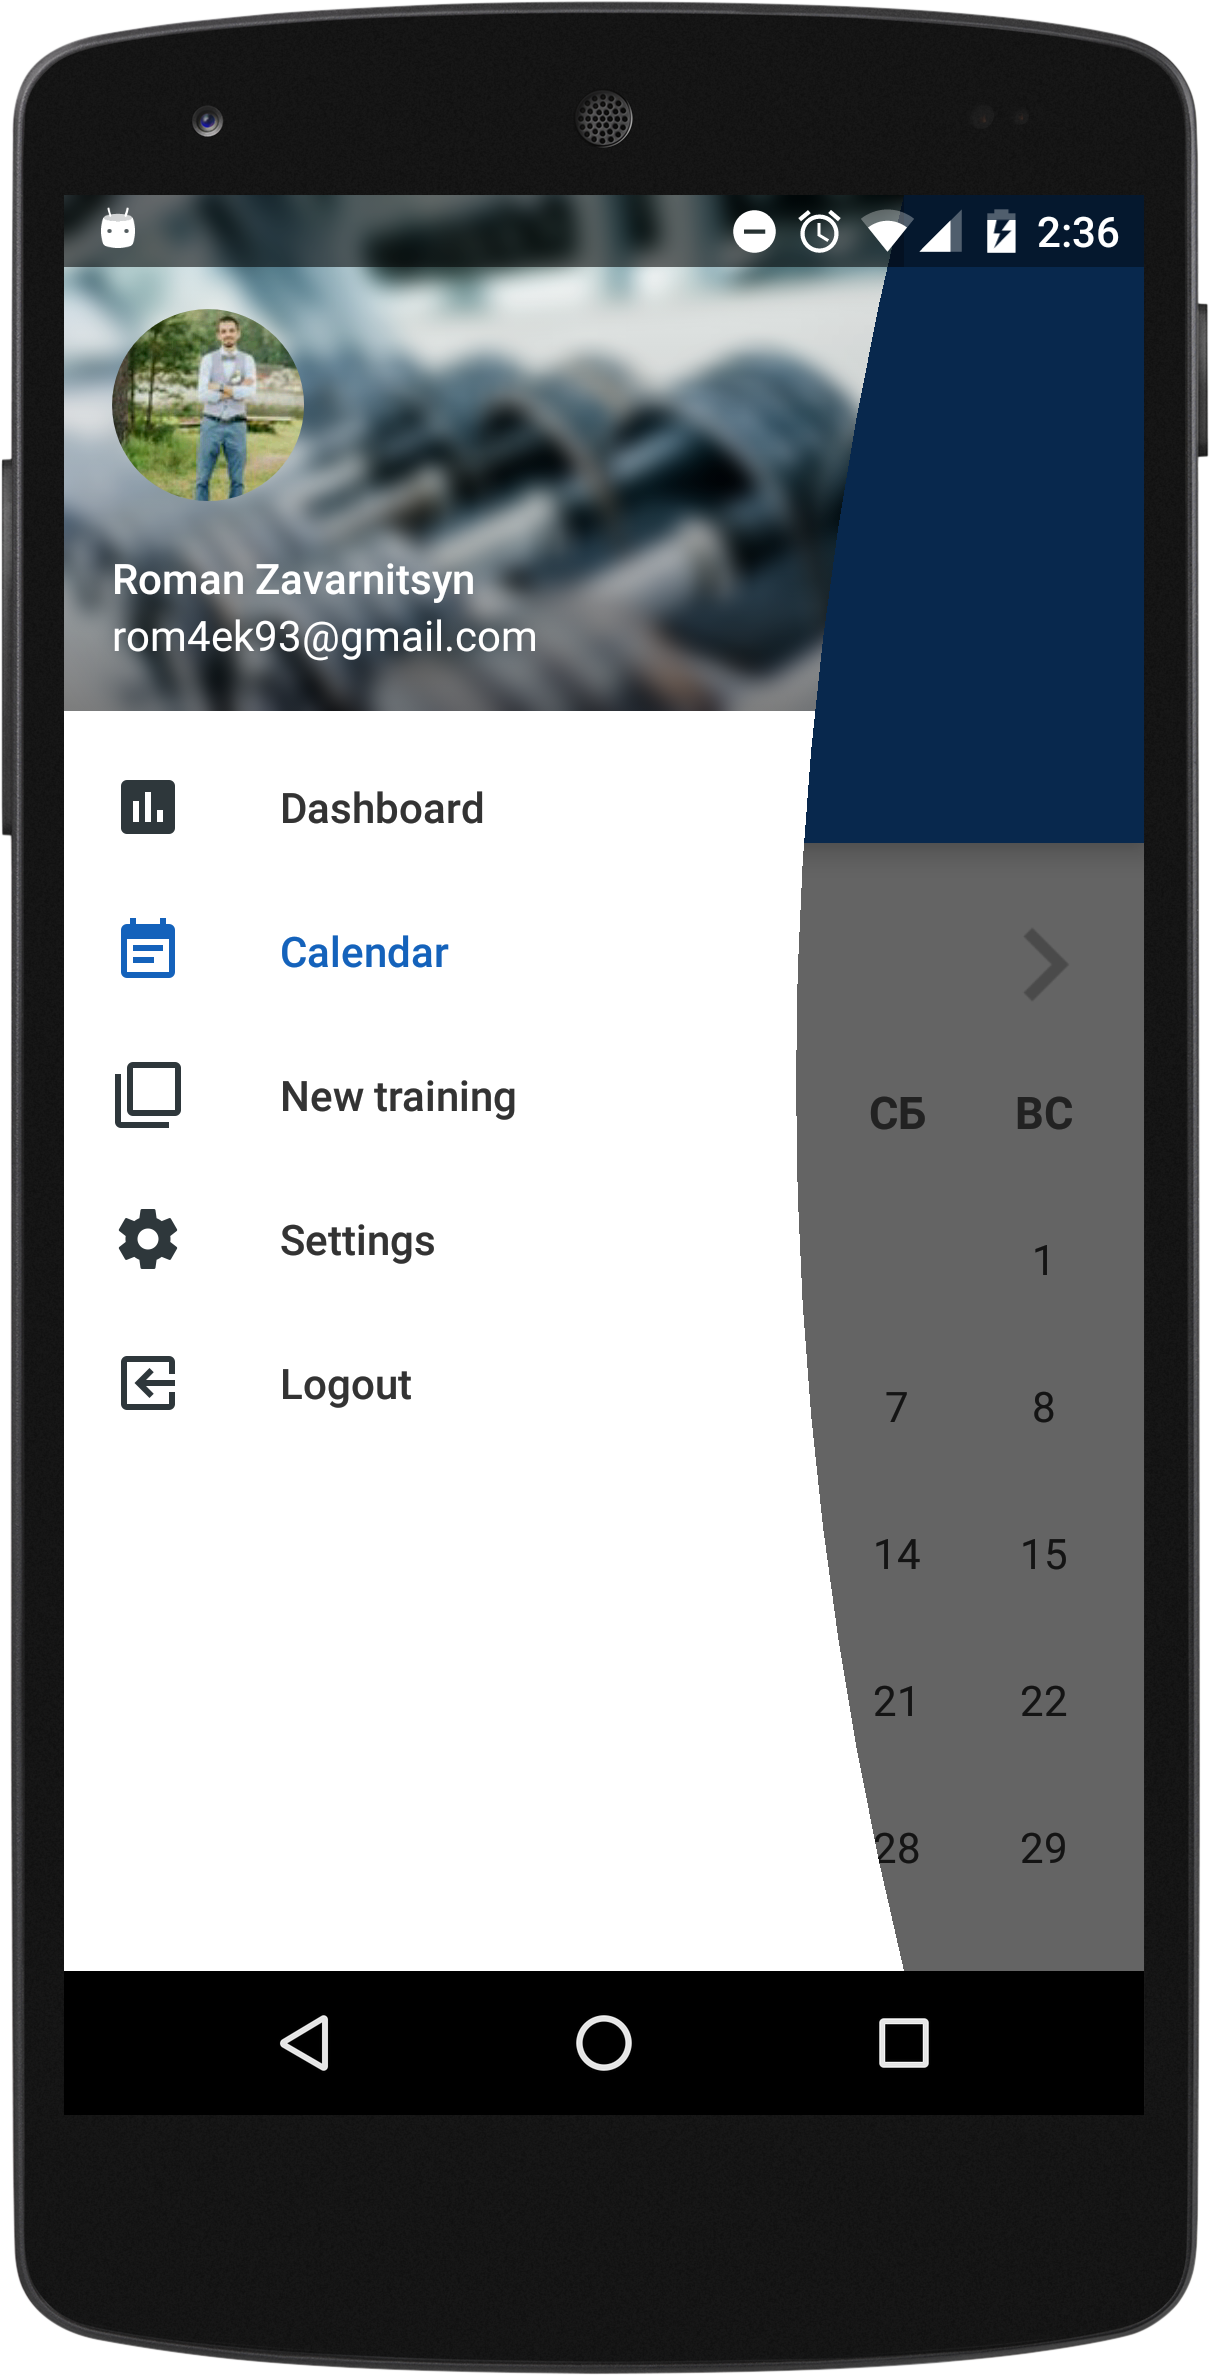
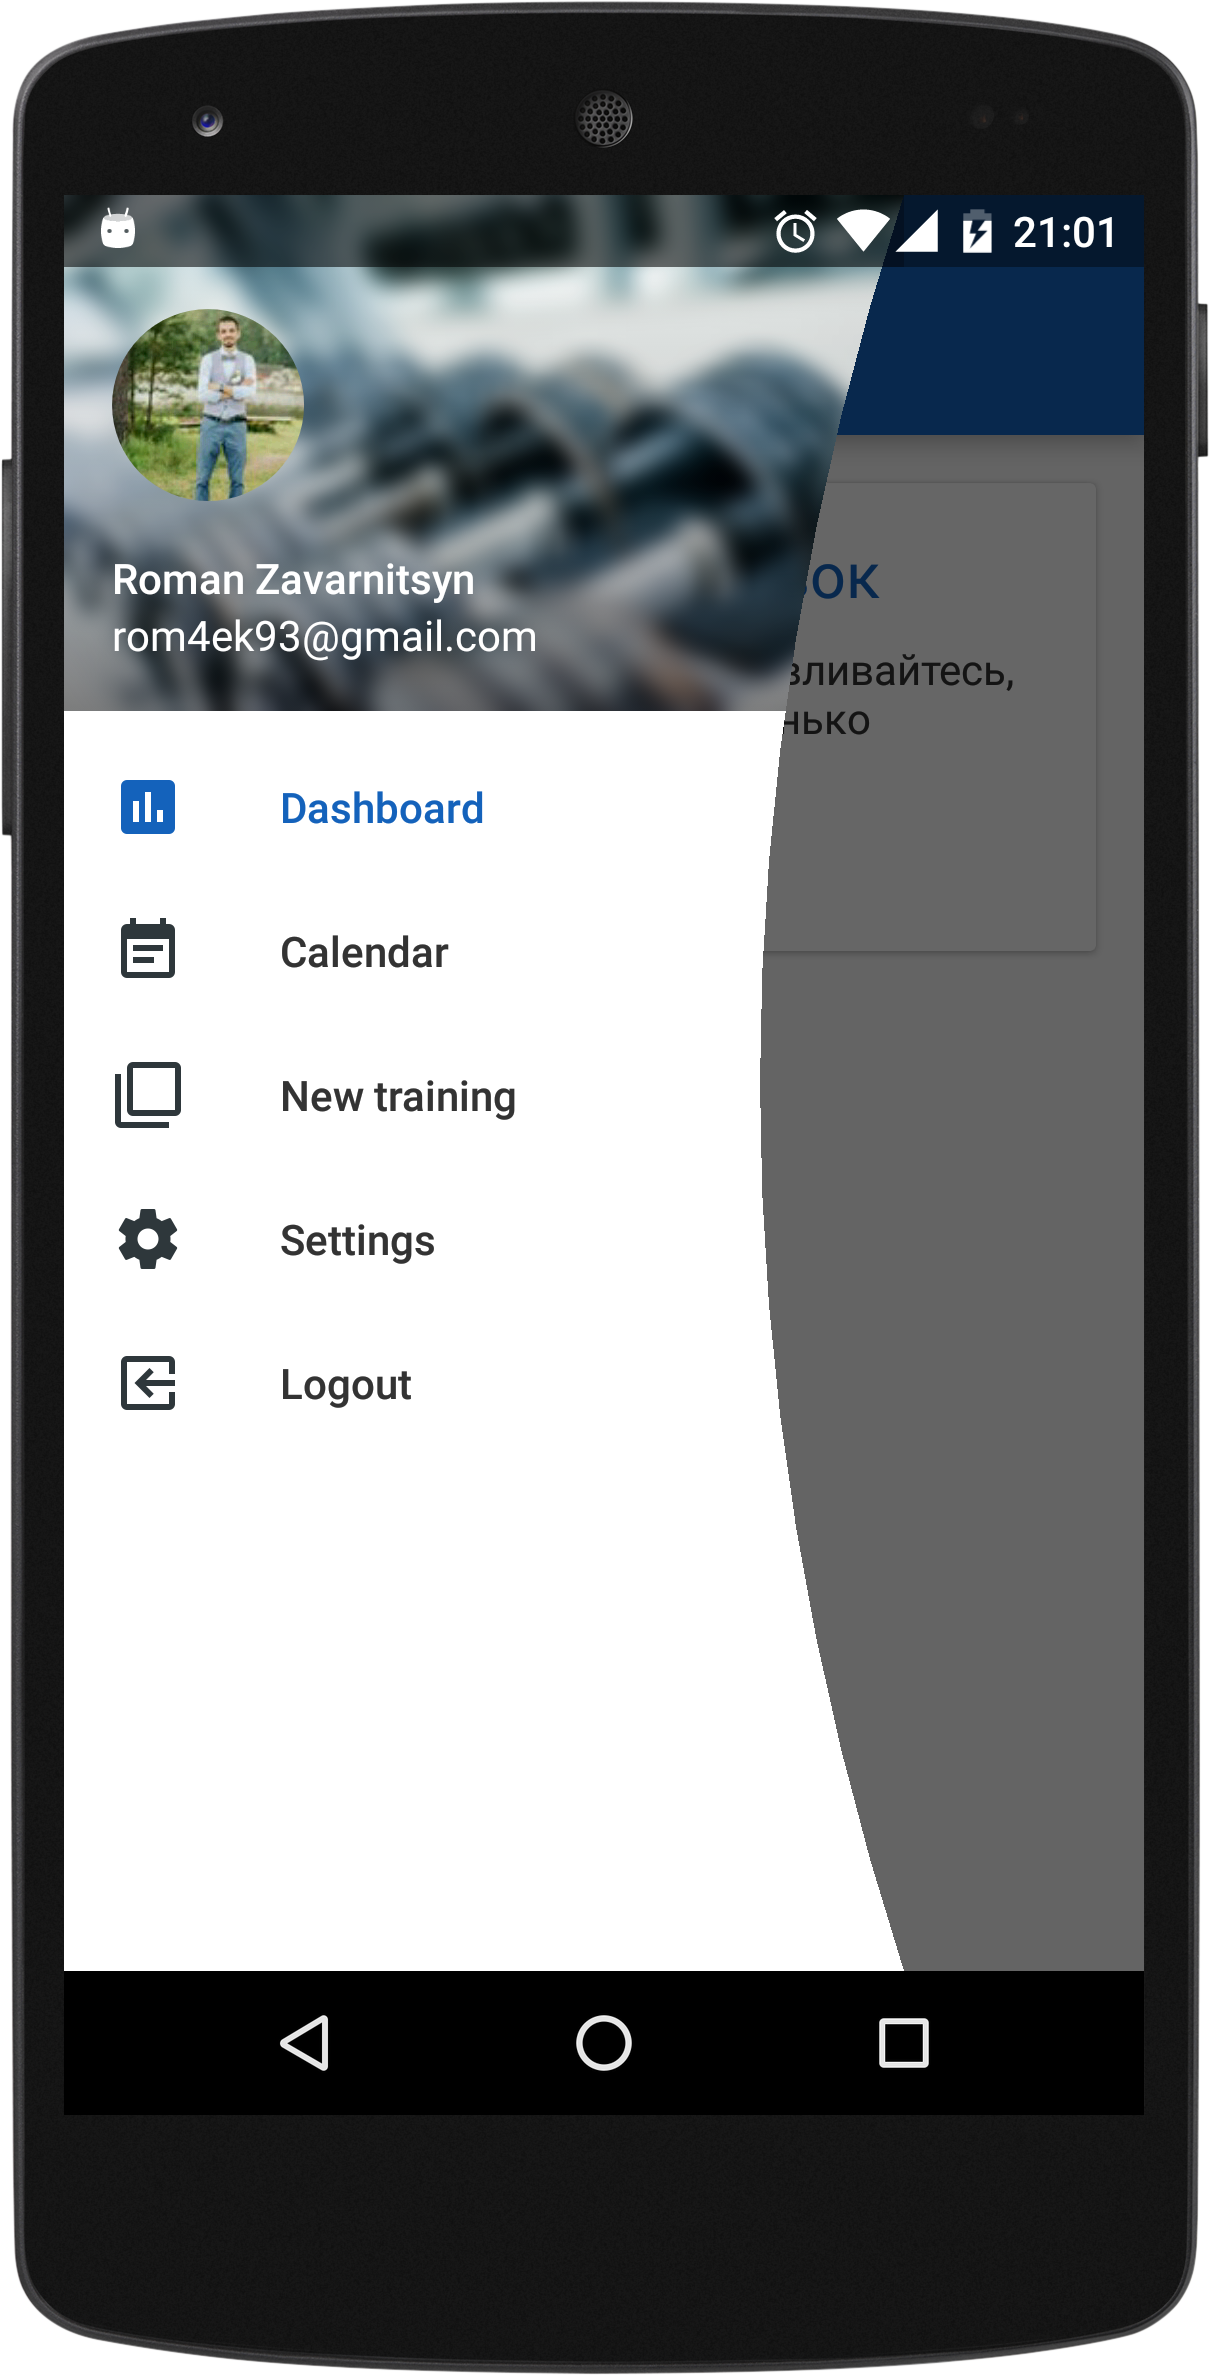
fixed behavior for cropOutside mode + bump version to 1.0,1

diff --git a/arcnavigationview/src/main/java/com/rom4ek/arcnavigationview/ArcNavigationView.java b/arcnavigationview/src/main/java/com/rom4ek/arcnavigationview/ArcNavigationView.java
@@ -98,27 +98,27 @@ public class ArcNavigationView extends NavigationView {
             }
         } else {
             if (layoutParams.gravity == Gravity.START || layoutParams.gravity == Gravity.LEFT) {
-                arcPath.moveTo(width - arcWidth, 0);
-                arcPath.quadTo(width + arcWidth, height / 2,
-                        width - arcWidth, height);
+                arcPath.moveTo(width - arcWidth / 2, 0);
+                arcPath.quadTo(width + arcWidth / 2, height / 2,
+                        width - arcWidth / 2, height);
                 arcPath.close();
 
                 path.moveTo(0, 0);
-                path.lineTo(width - arcWidth, 0);
-                path.quadTo(width + arcWidth, height / 2,
-                        width - arcWidth, height);
+                path.lineTo(width - arcWidth / 2, 0);
+                path.quadTo(width + arcWidth / 2, height / 2,
+                        width - arcWidth / 2, height);
                 path.lineTo(0, height);
                 path.close();
             } else if (layoutParams.gravity == Gravity.END || layoutParams.gravity == Gravity.RIGHT) {
-                arcPath.moveTo(arcWidth, 0);
-                arcPath.quadTo(-arcWidth, height / 2,
-                        arcWidth, height);
+                arcPath.moveTo(arcWidth / 2, 0);
+                arcPath.quadTo(-arcWidth / 2, height / 2,
+                        arcWidth / 2, height);
                 arcPath.close();
 
                 path.moveTo(width, 0);
-                path.lineTo(arcWidth, 0);
-                path.quadTo(-arcWidth, height / 2,
-                        arcWidth, height);
+                path.lineTo(arcWidth / 2, 0);
+                path.quadTo(-arcWidth / 2, height / 2,
+                        arcWidth / 2, height);
                 path.lineTo(width, height);
                 path.close();
             }
